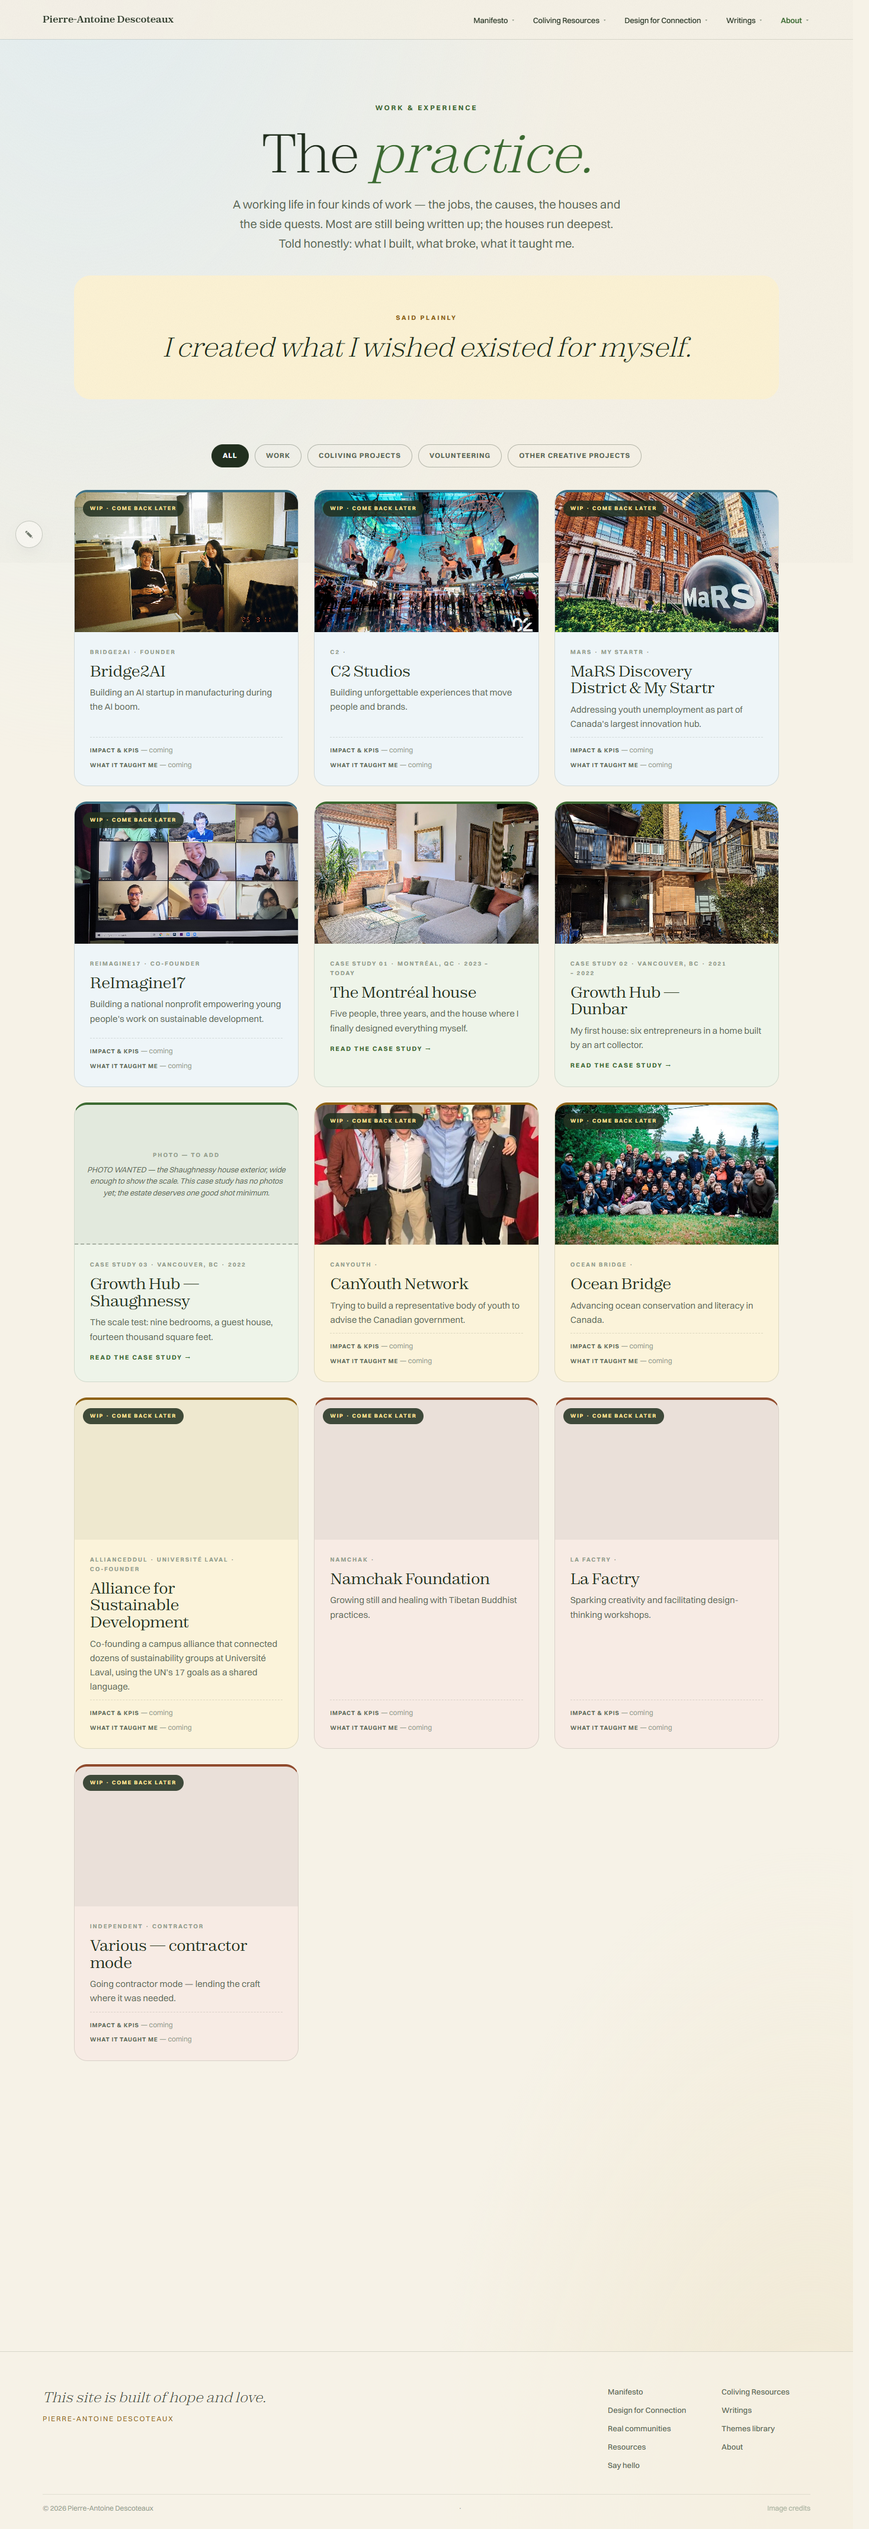
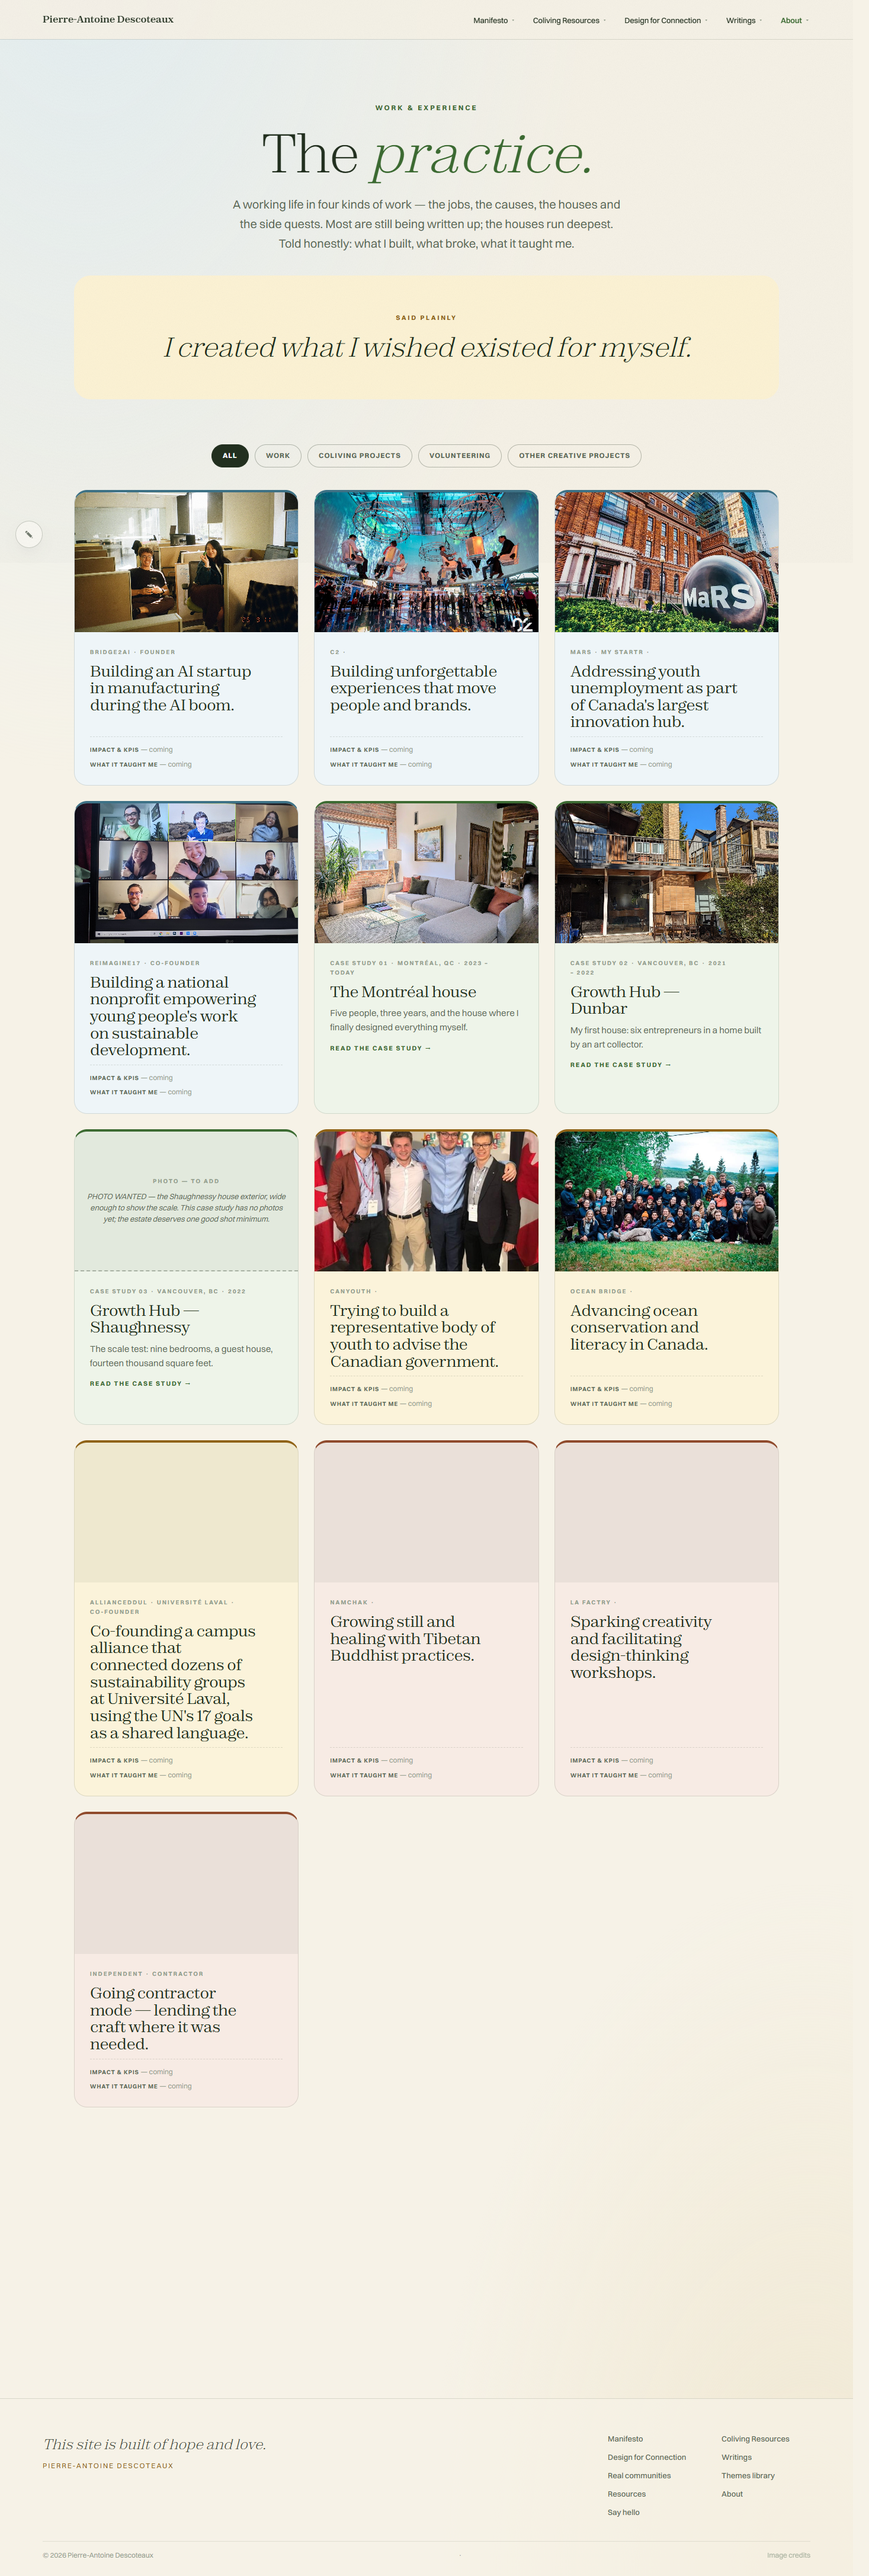
Work cards: descriptive headline big, org name small, drop WIP tag
- Headline is now the description (big serif), org name demoted to the small
  eyebrow — "the org name doesn't really matter" (P-A). Houses keep their name
  as the headline + summary sub-line.
- Removed the "WIP · come back later" tag (P-A: annoying). Cards stay
  non-clickable; no tag.
QA: 13 cards, filters correct, 0 broken, 0 errors.

Claude-Session: https://claude.ai/code/session_011HzeoFsZWP86f8imnze8Em

diff --git a/work.html b/work.html
@@ -163,7 +163,7 @@ a.exp-card:hover .exp-go{text-decoration:underline}
       inner = '<div class="ph"><span class="ph-k">Photo &mdash; to add</span>'+
         '<span class="ph-scene">'+esc(noEdit((hero&&hero.scene)||"A hero image for this experience"))+'</span></div>';
     }
-    return '<div class="exp-media">'+inner+(wip?'<span class="wip-tag">WIP &middot; come back later</span>':'')+'</div>';
+    return '<div class="exp-media">'+inner+'</div>';
   }
 
   // small org logo — self-removes if the file isn't there, so no broken icons
@@ -187,8 +187,9 @@ a.exp-card:hover .exp-go{text-decoration:underline}
       '<div class="exp-body">'+
         logoTag(it.logo)+
         '<span class="exp-org">'+esc(noEdit(it.org||""))+(it.role?' &middot; '+esc(noEdit(it.role)):'')+'</span>'+
-        '<h3>'+esc(noEdit(it.title))+'</h3>'+
-        '<p class="exp-blurb">'+esc(noEdit(it.blurb))+'</p>'+
+        (it.clickable
+          ? '<h3>'+esc(noEdit(it.title))+'</h3><p class="exp-blurb">'+esc(noEdit(it.blurb))+'</p>'
+          : '<h3>'+esc(noEdit(it.blurb))+'</h3>')+
         foot+
       '</div>'+
     close;
